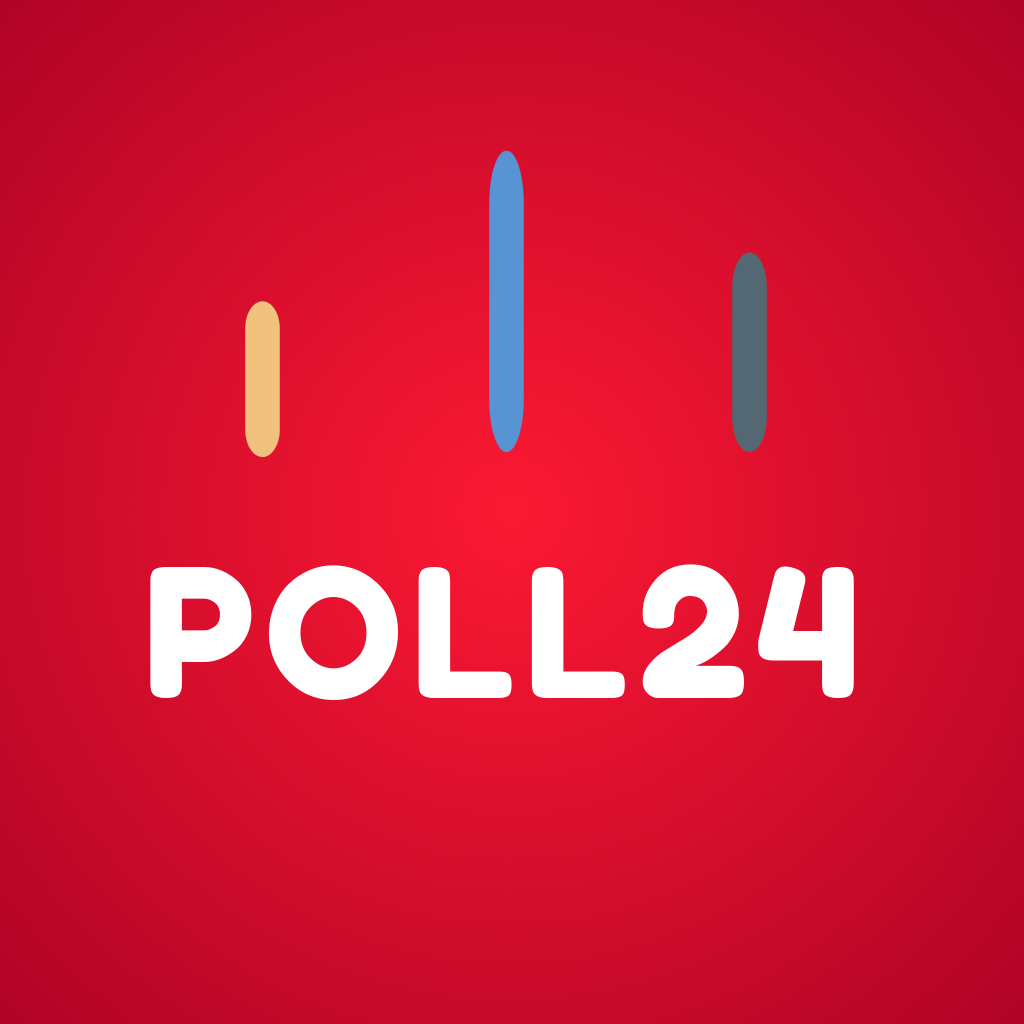
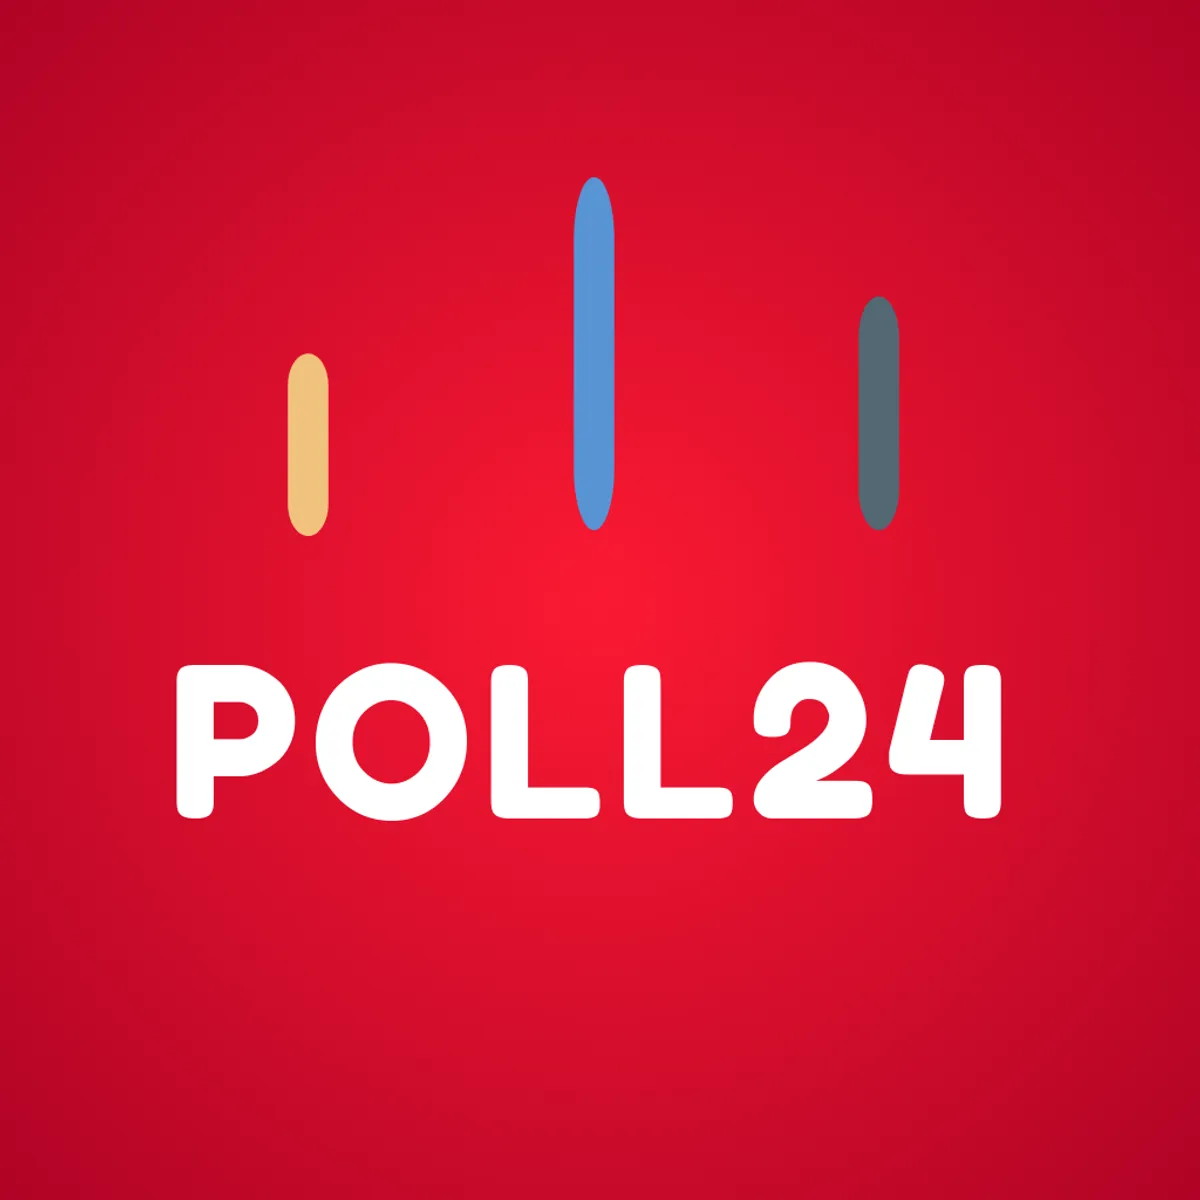
image folder

Changed region(s): [[0.6875, 0.625, 0.7188, 0.6562], [0.4688, 0.6562, 0.5, 0.6875]]

diff --git a/scripts/optimize-images.js b/scripts/optimize-images.js
@@ -1,42 +1,48 @@
 import fs from 'fs';
 import path from 'path';
-import { fileURLToPath } from 'url';
 import { execSync } from 'child_process';
+import { fileURLToPath } from 'url';
+import sharp from 'sharp';
 
-// Get the directory name in ES modules
+// Get current directory name in ES modules
 const __filename = fileURLToPath(import.meta.url);
 const __dirname = path.dirname(__filename);
 
-// Correct the path to match your actual assets folder name
+// Directory containing images
 const imageDir = path.join(__dirname, '../src/assests');
 
-function optimizeImages(directory) {
-  if (!fs.existsSync(directory)) {
-    console.log(`Directory does not exist: ${directory}`);
-    return;
-  }
+// Get all image files
+const imageFiles = fs.readdirSync(imageDir).filter(file => {
+  const ext = path.extname(file).toLowerCase();
+  return ['.jpg', '.jpeg', '.png', '.webp'].includes(ext);
+});
 
-  const files = fs.readdirSync(directory);
+// Process each image
+imageFiles.forEach(file => {
+  const inputPath = path.join(imageDir, file);
+  const outputPath = path.join(imageDir, file);
   
-  files.forEach(file => {
-    const filePath = path.join(directory, file);
-    const stats = fs.statSync(filePath);
-    
-    if (stats.isDirectory()) {
-      optimizeImages(filePath);
-    } else if (/\.(jpg|jpeg|png)$/i.test(file)) {
-      console.log(`Optimizing ${filePath}...`);
-      try {
-        // Use sharp CLI or another image optimization tool
-        // This is a placeholder - you may need to install sharp-cli or use another tool
-        execSync(`npx sharp-cli --input ${filePath} --output ${filePath} --resize 1200 --quality 80`);
+  console.log(`Optimizing ${inputPath}...`);
+  
+  try {
+    // Use the sharp library directly instead of CLI
+    sharp(inputPath)
+      .resize(1200) // Resize to width 1200px, maintaining aspect ratio
+      .jpeg({ quality: 80 })
+      .png({ quality: 80 })
+      .webp({ quality: 80 })
+      .toFile(outputPath + '.tmp')
+      .then(() => {
+        // Replace original with optimized version
+        fs.renameSync(outputPath + '.tmp', outputPath);
         console.log(`Successfully optimized ${file}`);
-      } catch (error) {
-        console.error(`Error optimizing ${file}:`, error.message);
-      }
-    }
-  });
-}
+      })
+      .catch(err => {
+        console.error(`Error processing ${file}: ${err.message}`);
+      });
+  } catch (error) {
+    console.error(`Error optimizing ${file}: ${error.message}`);
+  }
+});
 
-optimizeImages(imageDir);
 console.log('Image optimization complete!');
